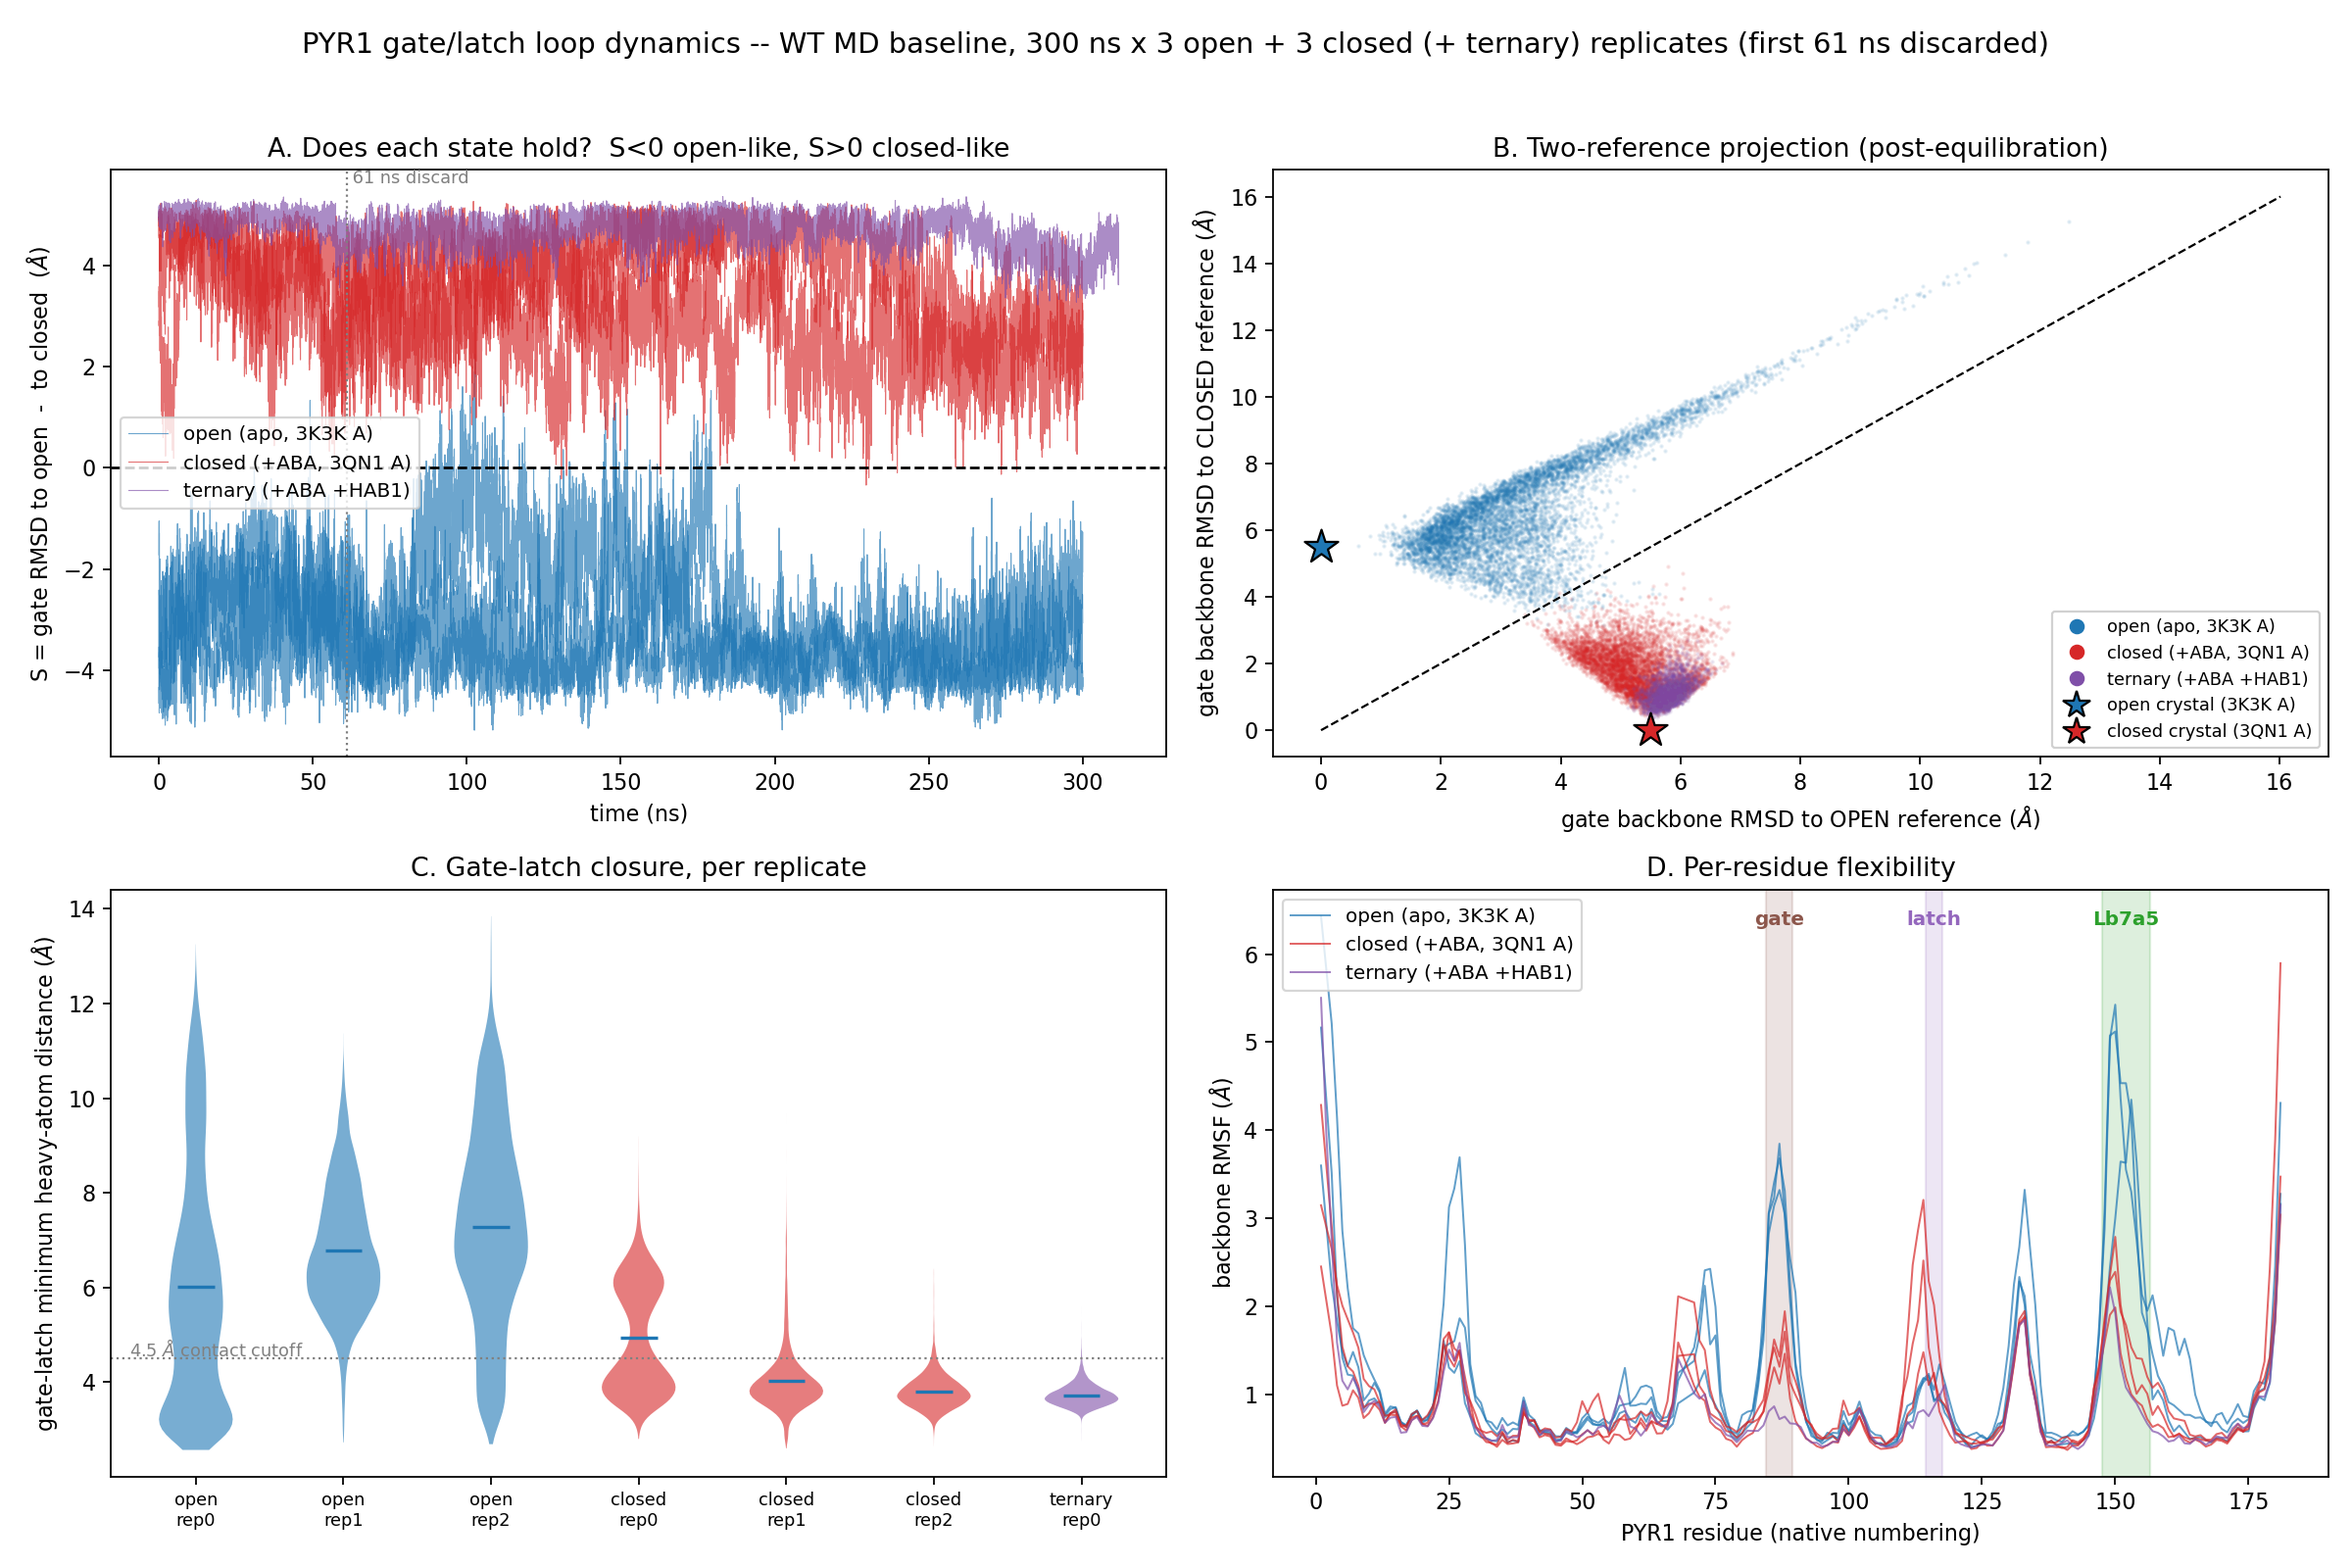
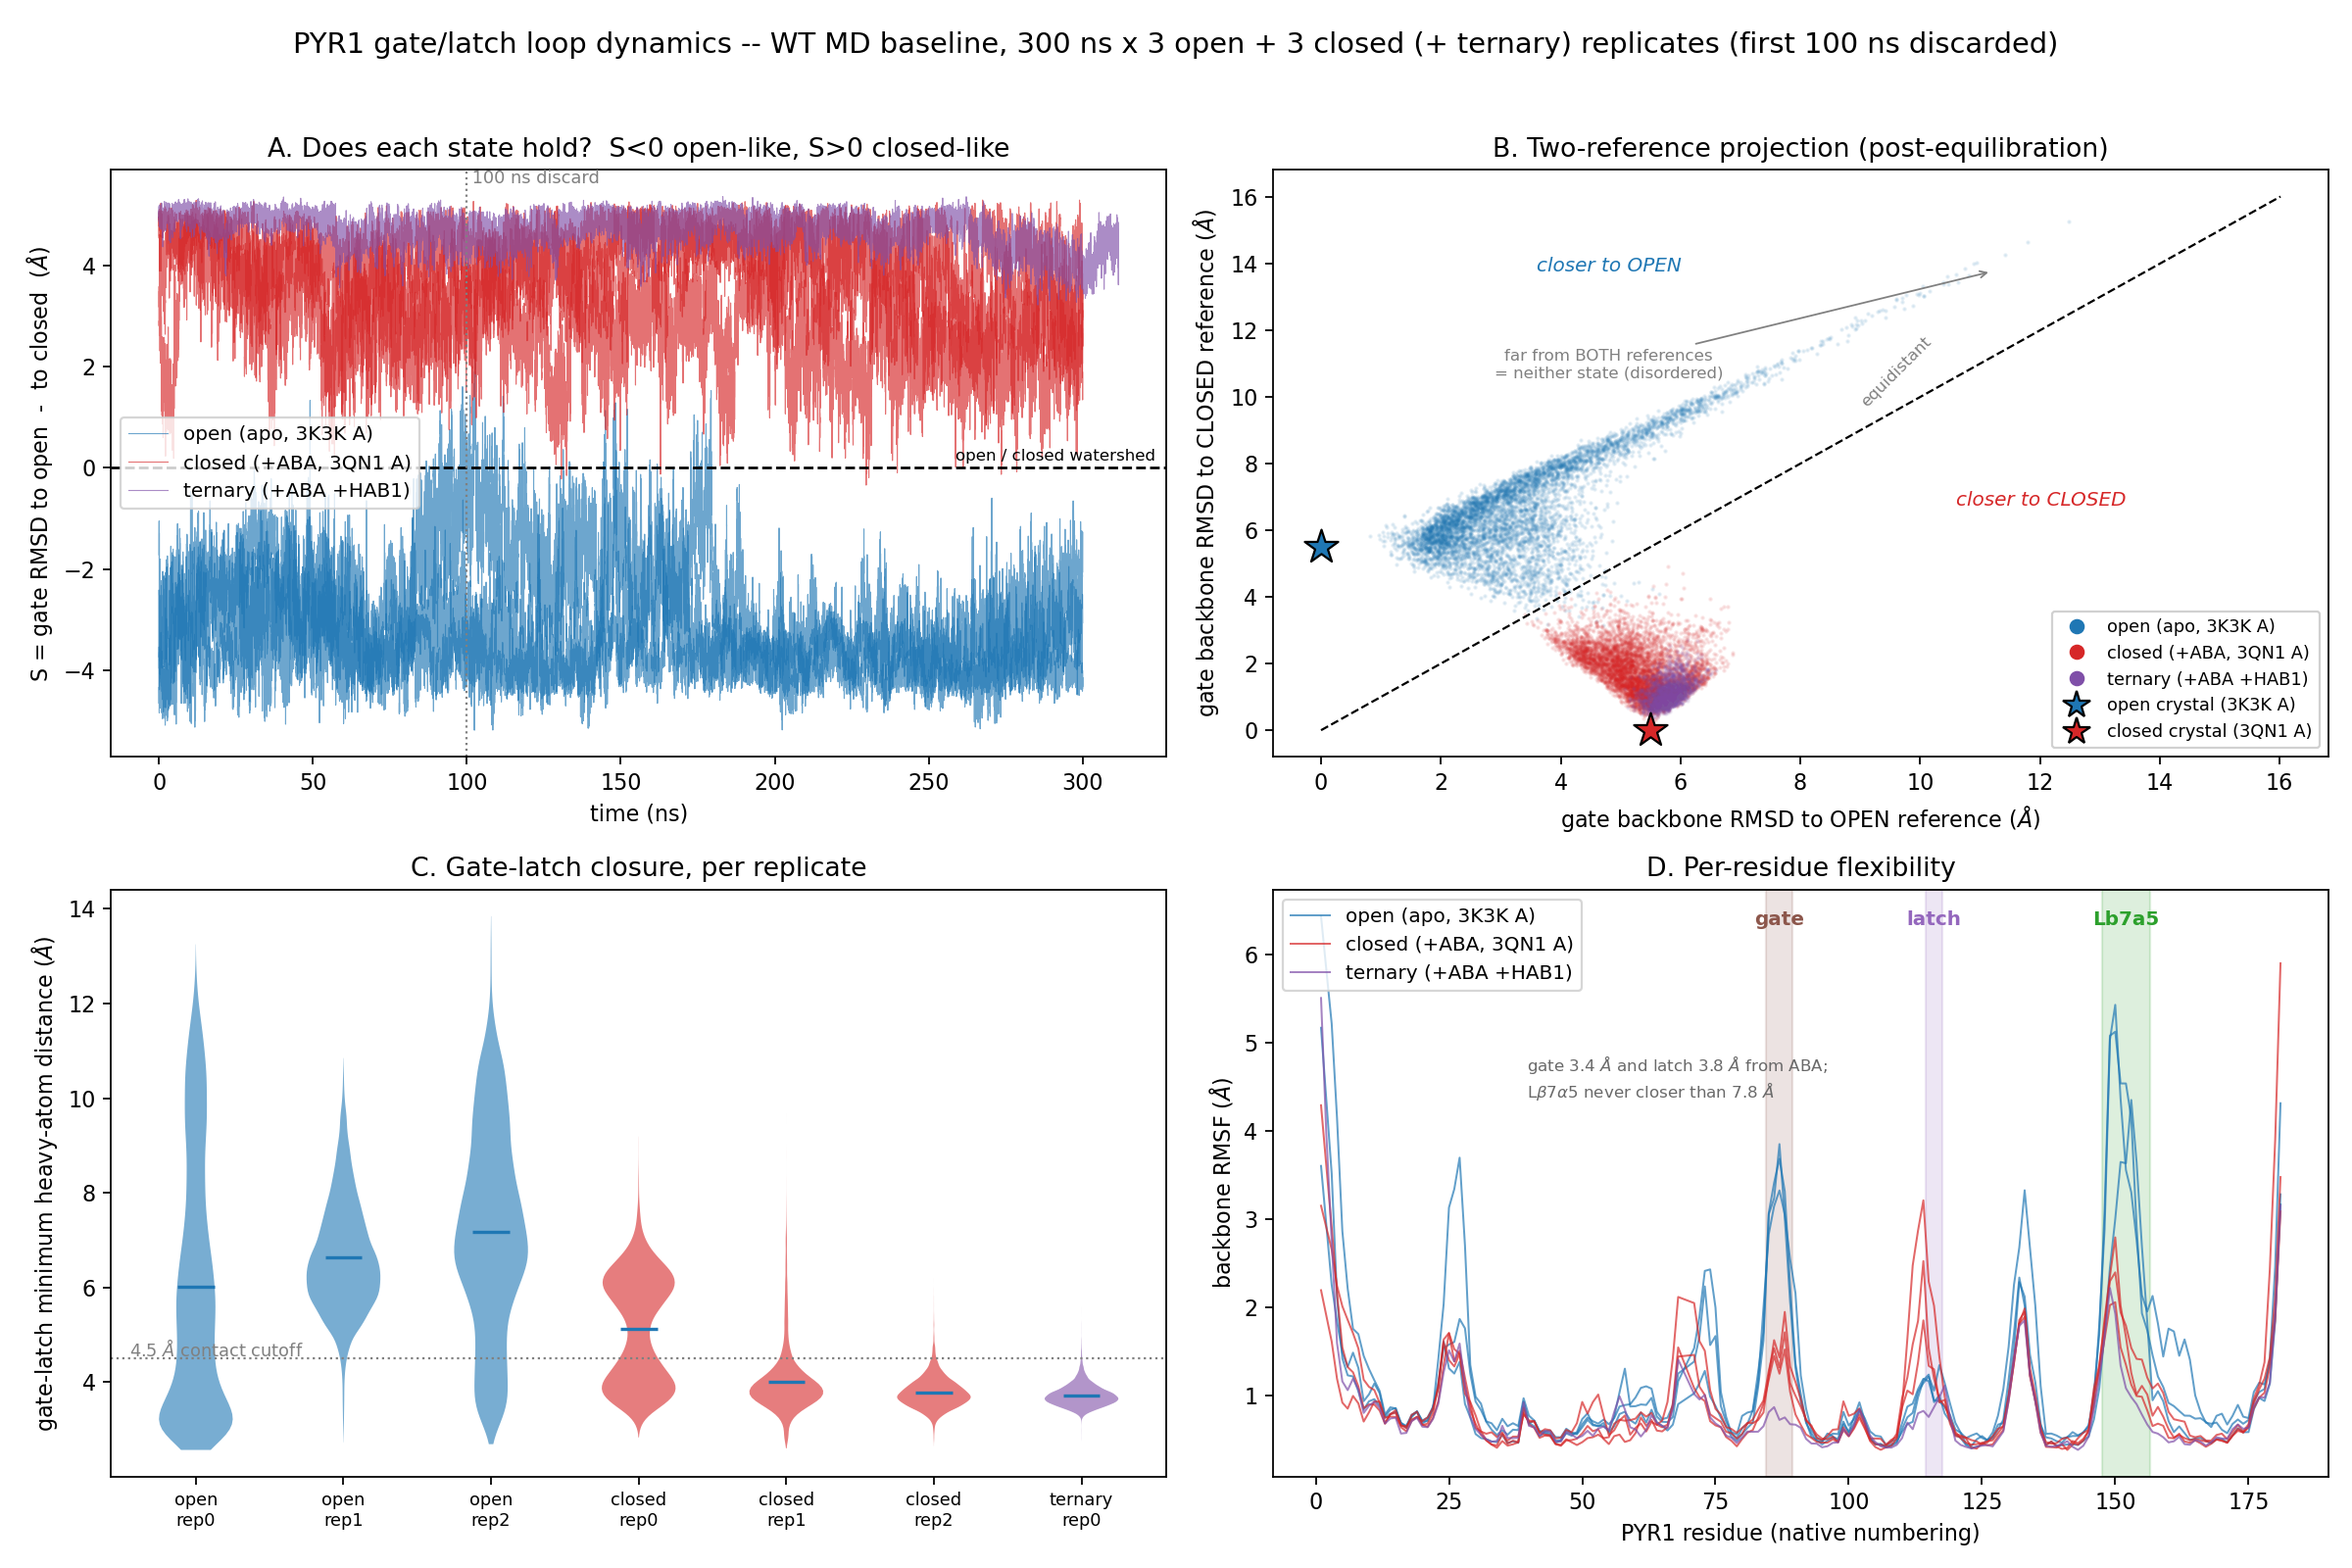
Regenerate loop-dynamics figure and numbers with S2 rep2 complete
S2 rep2 reached 301700 ps, so the closed arm is now three full 300 ns replicates
instead of two complete plus one 179 ns partial. Re-ran 58b/59/60 across all
seven replicate-analyses for consistency.

The conclusion is unchanged and the numbers barely move: gate replicate-mean gap
5.51 -> 5.57 A, latch 6.18 -> 6.27 A, still zero interconversion. The longer
shortest-replicate raises the capped equilibration discard from 61 to 100 ns,
which the sensitivity table shows makes no difference (gap 5.52-5.66 A from 0 to
150 ns of discard).

One number moved enough to matter: the gate-latch contact in closed rep0 is
broken in 60% of frames, not 52%, and the replicate gap for that observable falls
from 1.09 to 0.90 A -- it remains the weakest of the pre-registered observables
and still should not be used as a filter. The ternary breaks it in 0.8% of frames.

Figure annotations added in response to questions about how to read it: panel B
now labels the equidistance diagonal and the two regions, and marks the
far-from-both-references corner as disorder rather than conversion; panel D notes
that Lb7a5 never comes closer than 7.8 A to ABA while the gate and latch are at
3.4 and 3.8 A.

diff --git a/scripts/60_loop_dynamics_figure.py b/scripts/60_loop_dynamics_figure.py
@@ -72,6 +72,8 @@ for s, (lab, col) in SYSTEMS.items():
                  label=lab if first else None)
         first = False
 axA.axhline(0, color="k", lw=1.2, ls="--")
+axA.text(0.99, 0.5, "open / closed watershed", transform=axA.transAxes,
+         fontsize=7.5, color="k", ha="right", va="bottom")
 axA.axvline(DISCARD, color="grey", lw=1, ls=":")
 axA.text(DISCARD, axA.get_ylim()[1], f" {DISCARD} ns discard",
          va="top", fontsize=8, color="grey")
@@ -94,6 +96,21 @@ axB.scatter([0], [ref], marker="*", s=260, color="#1f77b4", edgecolor="k", zorde
 axB.scatter([ref], [0], marker="*", s=260, color="#d62728", edgecolor="k", zorder=5)
 lim = max(axB.get_xlim()[1], axB.get_ylim()[1])
 axB.plot([0, lim], [0, lim], color="k", lw=1, ls="--")
+# The diagonal is the equidistance line. Saying so on the figure matters: a single
+# RMSD cannot distinguish "converted to the other state" from "fell apart in some
+# third direction", and the whole point of two references is that it can.
+axB.text(0.30 * lim, 0.86 * lim, "closer to OPEN", fontsize=9, style="italic",
+         color="#1f77b4", ha="center", rotation=0)
+# placed below the diagonal on the right, where nothing is plotted and the
+# lower-right legend cannot clip it
+axB.text(0.75 * lim, 0.42 * lim, "closer to CLOSED", fontsize=9, style="italic",
+         color="#d62728", ha="center")
+axB.text(0.60 * lim, 0.60 * lim, "equidistant", fontsize=7.5, color="grey",
+         rotation=45, ha="center", va="bottom")
+axB.annotate("far from BOTH references\n= neither state (disordered)",
+             xy=(0.70 * lim, 0.86 * lim), xytext=(0.30 * lim, 0.66 * lim),
+             fontsize=7.5, color="grey", ha="center",
+             arrowprops=dict(arrowstyle="->", color="grey", lw=0.8))
 axB.set_xlabel("gate backbone RMSD to OPEN reference ($\\AA$)")
 axB.set_ylabel("gate backbone RMSD to CLOSED reference ($\\AA$)")
 axB.set_title("B. Two-reference projection (post-equilibration)")
@@ -154,6 +171,11 @@ for lname, (nats, lcol) in LOOPS.items():
     axD.axvspan(min(nats) - 0.5, max(nats) + 0.5, color=lcol, alpha=0.16)
     axD.text(np.mean(nats), axD.get_ylim()[1] * 0.94, lname, ha="center",
              fontsize=9, color=lcol, fontweight="bold")
+axD.text(0.24, 0.72,
+         "gate 3.4 $\\AA$ and latch 3.8 $\\AA$ from ABA;\n"
+         "L$\\beta$7$\\alpha$5 never closer than 7.8 $\\AA$",
+         transform=axD.transAxes, fontsize=7.5, color="dimgrey",
+         ha="left", va="top")   # empty region ~res 40-75, clear of the loop labels
 axD.set_xlabel("PYR1 residue (native numbering)")
 axD.set_ylabel("backbone RMSF ($\\AA$)")
 axD.set_title("D. Per-residue flexibility")

diff --git a/README.md b/README.md
@@ -2540,7 +2540,7 @@ reversed. Never delete the old claim — strike it through in place and add a ro
 | 22 | 08-13 | the ligand-swap null only had to supply a subtraction, so it did not need checking itself | the ABA null arm is WT + native ligand, so its own correct answer is **zero mutations** — it was at **4/15**, deleting a 2.85 Å K59 salt bridge in 100% of trajectories. Never scored, because a null is only ever read as a difference | **score the control's own correct answer, not only the contrast.** K59R and V81I are uninterpretable, not negative; stage 1 does not clear (§23j) |
 | 23 | 08-13 | a params file summing to 0.000 net charge meant the formal charge was dropped | field 4 of a params `ATOM` line is the MM type — the literal `X` — and the charge is field 5. Summing field 4 returns 0.000 for **any** ligand. The real sums were −0.970 and +0.100, both correct | caught by the validator written to act on it, before any commit or compute; params regenerated **byte-identical**. Validation now uses field 5 with a rounding-aware tolerance. **A number shaped like a finding still needs its reader checked** (§23j) |
 | 24 | 08-14 | one residue-numbering map would serve every MD system, since they are all PYR1 | S1/S2 come from script 30's 3K3K∩3QN1 intersection (178 res, gate = seq 82-86); S4 was built from 3QN1 alone and keeps residue 2 as ALA (179 res, gate = seq **83-87**). Reusing S1's core mask on S4 gave a 162-residue fit set against the references' 161 — cpptraj **set it up anyway** and returned gate RMSD ≈ **84 Å** | maps are rebuilt **per system** and verified by residue identity before any frame is read; the core set is asserted identical across systems. Also: address ligands by NAME (`:A8S`), since `n_res+1` is ABA in S2 but HAB1's first residue in S4 (§24f) |
-| 25 | 08-14 | the gate–latch contact is the staple that holds the closed state | in the closed MONOMER the contact is intermittent — broken in **52 %** of frames in S2 rep0 — and it is the weakest pre-registered observable (replicate gap 1.09 Å). Adding HAB1 gives the tightest distribution of any system (3.72 Å) | the staple is clamped by the PARTNER, not held by PYR1 alone — consistent with the ratchet framing. Do not filter designs on gate–latch distance (§24d) |
+| 25 | 08-14 | the gate–latch contact is the staple that holds the closed state | in the closed MONOMER the contact is intermittent — broken in **60 %** of frames in S2 rep0 — and it is the weakest pre-registered observable (replicate gap 0.90 Å). Adding HAB1 gives the tightest distribution of any system (3.72 Å) | the staple is clamped by the PARTNER, not held by PYR1 alone — consistent with the ratchet framing. Do not filter designs on gate–latch distance (§24d) |
 | 26 | 08-14 | a stable closed trajectory would show a design's switch works | neither state converts even once in 1.8 μs of aggregate WT sampling; both are kinetically trapped at 300 ns | MD licenses a **stability** filter (gate RMSD to closed, threshold 3.5–4.0 Å, ~1 % error each way) and is **blind to switchability** — the more likely failure mode for an enlarged pocket (§24b) |
 
 ### Bugs caught before they cost anything
@@ -3399,16 +3399,16 @@ runs finished, so nothing here was chosen after seeing the data.
 ### 24a. The headline
 
 **Open stays open, closed stays closed, and neither ever converts.** Across
-6 × 300 ns of WT monomer (3 apo-open + 3 holo-closed) plus one 300 ns ternary
-replicate, the gate never crosses the open/closed watershed in a sustained way:
+6 × 300 ns of WT monomer (3 apo-open + 3 holo-closed, all now complete) plus one
+300 ns ternary replicate, the gate never crosses the open/closed watershed in a sustained way:
 
 | system | gate S = d(open) − d(closed) | % of frames open-like | gate RMSD to closed |
 |---|---|---|---|
-| S1 apo open, 3 reps | −3.24, −2.97, −3.61 | 99, 98, 100 % | 6.46, 5.63, 7.74 Å |
-| S2 holo closed, 3 reps | +2.54, +3.71, +4.34 | 0, 0, 0 % | 2.34, 1.67, 1.29 Å |
+| S1 apo open, 3 reps | −3.22, −3.10, −3.63 | 99, 98, 100 % | 6.69, 5.65, 7.75 Å |
+| S2 holo closed, 3 reps | +2.48, +3.83, +4.16 | 0, 0, 0 % | 2.36, 1.62, 1.39 Å |
 | S4 ternary (+HAB1), 1 rep | **+4.66** | 0 % | **1.13 Å** |
 
-The **replicate-mean gap is 5.51 Å on the gate and 6.18 Å on the latch**, against a
+The **replicate-mean gap is 5.57 Å on the gate and 6.27 Å on the latch**, against a
 within-replicate spread (sd of S) of only 0.3–1.2 Å. That is a separation of roughly
 5σ between states, and it is **insensitive to the equilibration discard** — the gap
 is 5.52–5.66 Å at every window from 0 to 150 ns (§59 section 5).
@@ -3420,11 +3420,11 @@ closed reference* separates the states with a wide margin:
 
 | threshold | open frames called closed | closed frames called open |
 |---|---|---|
-| 3.0 Å | 0.003 % | 5.39 % |
-| **3.5 Å** | **0.066 %** | **1.20 %** |
-| 4.0 Å | 1.09 % | 0.19 % |
+| 3.0 Å | 0.003 % | 4.80 % |
+| **3.5 Å** | **0.077 %** | **1.11 %** |
+| 4.0 Å | 0.93 % | 0.19 % |
 
-Replicate means never come close to overlapping (open 5.63–7.74 Å, closed 1.13–2.34 Å).
+Replicate means never come close to overlapping (open 5.65–7.75 Å, closed 1.13–2.36 Å).
 
 **It does not license a switchability filter, and this is the important caveat.**
 Because neither state ever converts, MD on this timescale can only tell you whether a
@@ -3440,14 +3440,14 @@ Backbone RMSF, fit to the average structure:
 
 | loop | open | closed | ternary | open/closed |
 |---|---|---|---|---|
-| gate 85–89 | 3.05 Å (2.98–3.14) | 1.36 Å (1.18–1.51) | **0.76 Å** | 2.25× |
-| Lβ7α5 148–156 | 3.38 Å (2.99–3.68) | 1.57 Å (1.29–1.75) | 1.28 Å | 2.15× |
-| latch 115–117 | 1.09 Å (1.01–1.20) | 1.40 Å (1.05–1.91) | 0.86 Å | **0.78×** |
+| gate 85–89 | 3.05 Å (2.98–3.14) | 1.39 Å (1.28–1.51) | **0.76 Å** | 2.19× |
+| Lβ7α5 148–156 | 3.38 Å (2.99–3.68) | 1.60 Å (1.39–1.75) | 1.28 Å | 2.11× |
+| latch 115–117 | 1.09 Å (1.01–1.20) | 1.44 Å (1.18–1.91) | 0.86 Å | **0.76×** |
 | core (161 res) | 0.80–1.05 Å | 0.71–0.94 Å | 0.75 Å | — |
 
 Three things follow.
 
-1. **Ligand then partner each roughly halve the gate's motion** — 3.05 → 1.36 → 0.76 Å.
+1. **Ligand then partner each roughly halve the gate's motion** — 3.05 → 1.39 → 0.76 Å.
    The ordering is clean and monotonic, which is what makes RMSF usable as a graded
    readout rather than a binary one.
 2. **Dorosh 2013 (§17a) is confirmed, and then some.** Lβ7α5 is not merely
@@ -3455,8 +3455,8 @@ Three things follow.
    (3.38 vs 3.05 Å). It was included only because Dorosh reported it; it turns out to
    be the single most dynamic element of the open receptor.
 3. **The latch does not discriminate on RMSF and must not be used as a filter.**
-   Its ratio inverts (0.78×) and the ranges overlap outright (open 1.01–1.20,
-   closed 1.05–1.91). The latch discriminates well on *position* (S gap 6.18 Å) and
+   Its ratio inverts (0.76×) and the ranges overlap outright (open 1.01–1.20,
+   closed 1.18–1.91). The latch discriminates well on *position* (S gap 6.27 Å) and
    not at all on *flexibility*. Two observables on the same three residues, opposite
    verdicts.
 
@@ -3467,15 +3467,15 @@ at the 4.5 Å cutoff:
 
 | system | mean min-dist | frames > 4.5 Å |
 |---|---|---|
-| open rep0/1/2 | 6.02 / 6.78 / 7.28 Å | 67 / 97 / 89 % |
-| closed rep0 | 4.93 Å | **52 %** |
-| closed rep1 | 4.03 Å | 14 % |
-| closed rep2 | 3.80 Å | 4 % |
-| **ternary (+HAB1)** | **3.72 Å** | — |
+| open rep0/1/2 | 6.02 / 6.64 / 7.17 Å | 62 / 98 / 87 % |
+| closed rep0 | 5.12 Å | **60 %** |
+| closed rep1 | 4.00 Å | 13 % |
+| closed rep2 | 3.78 Å | 3 % |
+| **ternary (+HAB1)** | **3.72 Å** | **0.8 %** |
 
 In the closed monomer the staple is **not a persistent contact** — one replicate has it
-broken half the time — and it is the weakest of the pre-registered observables
-(replicate gap 1.09 Å, and the only one whose frame distributions visibly overlap,
+broken 60 % of the time — and it is the weakest of the pre-registered observables
+(replicate gap 0.90 Å, and the only one whose frame distributions visibly overlap,
 panel C). Adding HAB1 gives the tightest and narrowest distribution of any system.
 This is consistent with the ratchet framing in §23: the staple is not something PYR1
 holds shut by itself, it is something the partner protein clamps.
